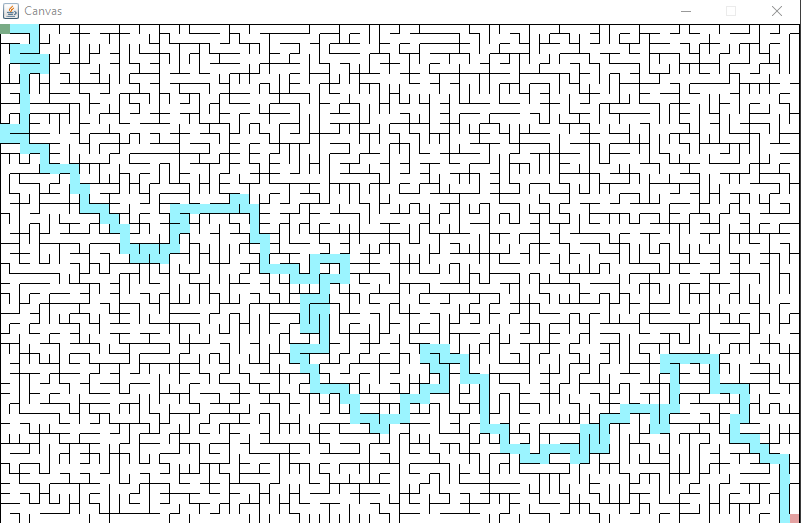
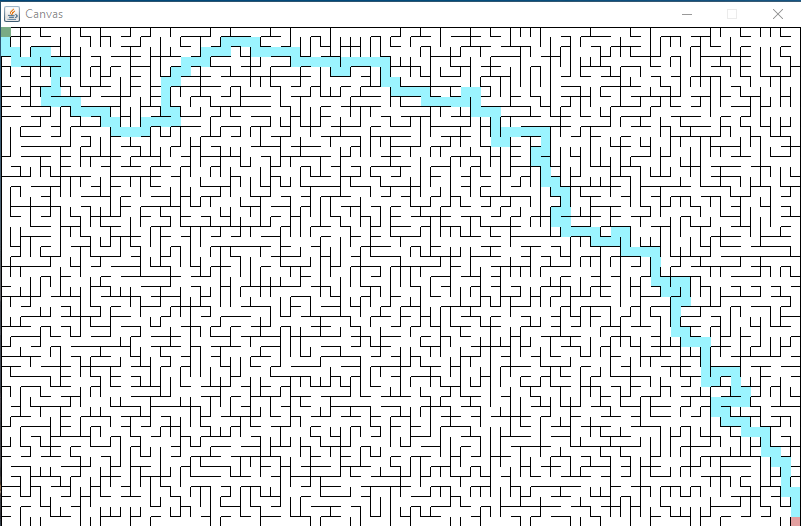
Updated screenshots and README

Changed region(s): [[0.0, 0.0, 1.0, 1.0]]

diff --git a/README.md b/README.md
@@ -15,21 +15,28 @@ pink square in the bottom-right corner. You navigate your player using the arrow
 keys. If you want to generate a different maze to play, you can press "R" to
 reset the game. If you want to solve the maze using depth-first search (DFS),
 press "D". As you move, your path will be highlighted in light green.
+
 ![Highlighted green path](Screenshots/midplay.png)
 
 Similarly, if you choose to have the maze solved for you, the path of the search
 will be highlighted in light blue.
+
 ![Highlighted blue path](Screenshots/dfs.png)
 
+## How to Change Map Dimensions
 The maze can be resized by changing the `MAZE_HEIGHT` and `MAZE_WIDTH` variables
 in the `Maze` class.
+
 ![10x20 maze](Screenshots/maze_10x20.png)
+
 *Example 10x20 Maze*
 
 ![50x80 maze](Screenshots/maze_50x80.png)
+
 *Example 50x80 Maze*
 
 ![100x100 maze](Screenshots/maze_100x100.png)
+
 *Example 100x100 Maze*
 
 ## Classes/Methods
